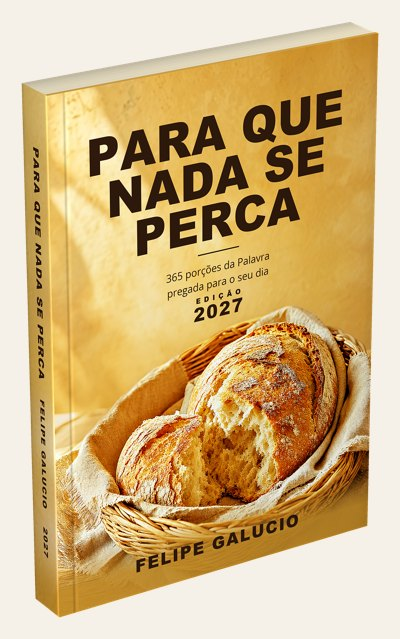
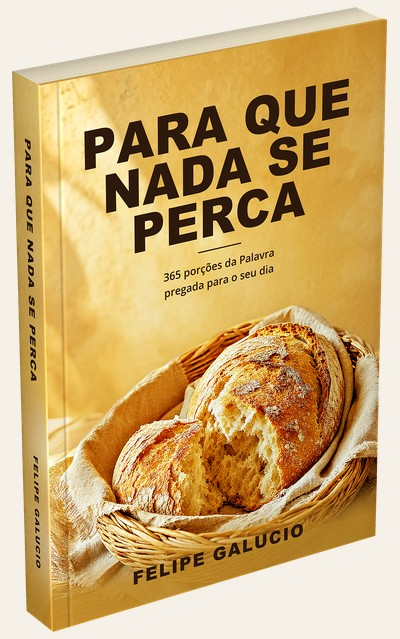
Devocional sem ano: textos e imagens sem 'Edicao 2027', 412 paginas

diff --git a/para-que-nada-se-perca/index.html b/para-que-nada-se-perca/index.html
@@ -3,10 +3,10 @@
 <head>
 <meta charset="utf-8">
 <meta name="viewport" content="width=device-width, initial-scale=1">
-<title>Pré-venda · Para que Nada se Perca · devocional 2027</title>
-<meta name="description" content="Para que Nada se Perca: 365 porções da Palavra pregada para o seu dia. Devocional diário de 2027 do Pr. Felipe Galucio, com plano de leitura da Bíblia em um ano. Envio para todo o Brasil.">
-<meta property="og:title" content="Para que Nada se Perca · devocional 2027">
-<meta property="og:description" content="365 porções da Palavra pregada para o seu dia. Um devocional para cada dia de 2027, com a Bíblia inteira em um ano.">
+<title>Pré-venda · Para que Nada se Perca · devocional diário</title>
+<meta name="description" content="Para que Nada se Perca: 365 porções da Palavra pregada para o seu dia. Devocional diário do Pr. Felipe Galucio, com plano de leitura da Bíblia em um ano. Envio para todo o Brasil.">
+<meta property="og:title" content="Para que Nada se Perca · devocional diário">
+<meta property="og:description" content="365 porções da Palavra pregada para o seu dia. Um devocional para cada dia do ano, com a Bíblia inteira em um ano.">
 <meta property="og:image" content="https://galucioweb36-hue.github.io/para-que-nada-se-perca/img/livro-aberto.webp">
 <link rel="preconnect" href="https://fonts.googleapis.com">
 <link rel="stylesheet" href="https://fonts.googleapis.com/css2?family=Playfair+Display:wght@500;600;700&family=Karla:wght@400;500;600;700&display=swap">
@@ -201,14 +201,14 @@
 <!-- ======================= TOPO ======================= -->
 <header class="topo">
   <div class="wrap-largo topo-grade">
-    <img src="img/livro-fechado.webp" width="700" height="1165" alt="Livro Para que Nada se Perca, edição 2027, de Felipe Galucio">
+    <img src="img/livro-fechado.webp" width="700" height="1165" alt="Livro Para que Nada se Perca, de Felipe Galucio">
     <div class="topo-texto">
-      <span class="etiqueta">Pré-venda até 5 de novembro · Edição 2027</span>
+      <span class="etiqueta">Pré-venda até 5 de novembro</span>
       <h1>Para que Nada se Perca</h1>
-      <p class="sub">365 porções da Palavra pregada para o seu dia, uma para cada dia de 2027, com a Bíblia inteira em um ano.</p>
+      <p class="sub">365 porções da Palavra pregada para o seu dia, uma para cada dia do ano, com a Bíblia inteira em um ano.</p>
       <div class="preco"><span class="valor-preco">R$ 65,00</span> <small>com envio para todo o Brasil</small></div>
       <ul class="selos">
-        <li>388 páginas</li><li>16 × 23 cm</li><li>Texto bíblico ARA</li><li>Envio pelos Correios</li>
+        <li>412 páginas</li><li>16 × 23 cm</li><li>Texto bíblico ARA</li><li>Envio pelos Correios</li>
       </ul>
       <p class="datas">Pré-venda até <b>5 de novembro</b>. Envios a partir de <b>15 de novembro</b>.</p>
       <a class="btn btn-cacau compra" href="pedido/">Quero o meu exemplar</a>
@@ -224,7 +224,7 @@
     <p>Depois de alimentar quase cinco mil pessoas com cinco pães e dois peixinhos, Jesus deu uma ordem que quase passa despercebida no meio do milagre:</p>
     <div class="versiculo">“Recolhei os pedaços que sobraram, para que nada se perca.”<cite>João 6:12</cite></div>
     <p>Todo domingo um sermão é servido à igreja depois de dias de estudo e oração. Mas na segunda-feira a vida volta a correr, e boa parte do que foi ouvido fica pelo caminho. Este livro nasceu dessa ordem de Jesus: recolhi os pedaços dos meus sermões e reparti em porções do tamanho de um dia, para que o alimento chegue também à segunda-feira, à quinta à noite e àquela manhã difícil em que ninguém está pregando para você.</p>
-    <p>São 365 devocionais, um para cada dia de 2027. Quando os sermões se esgotaram, segui pelo mesmo caminho que o púlpito sempre segue: as grandes doutrinas das cartas de Paulo, levadas à vida prática, alternadas com a sabedoria dos Salmos, de Provérbios, de Eclesiastes e de Lamentações.</p>
+    <p>São 365 devocionais, um para cada dia do ano, e o livro serve para este ano e para os seguintes. Quando os sermões se esgotaram, segui pelo mesmo caminho que o púlpito sempre segue: as grandes doutrinas das cartas de Paulo, levadas à vida prática, alternadas com a sabedoria dos Salmos, de Provérbios, de Eclesiastes e de Lamentações.</p>
     <div class="cta"><a class="btn btn-cacau compra" href="pedido/">Quero o meu exemplar · <span class="valor-preco">R$ 65,00</span></a><small>Frete incluso · pré-venda até 5/11 · envios a partir de 15/11</small></div>
   </div>
 </section>
@@ -242,7 +242,7 @@
       <img class="pagina" src="img/pagina-1-janeiro.webp" width="900" height="1294" loading="lazy" alt="A página de 1º de janeiro, Cada manhã, uma nova oportunidade">
       <ol class="partes">
         <li><b>Leitura da Bíblia em um ano</b><span>No alto da página, um trecho do Antigo Testamento, um do Novo, um Salmo e um Provérbio, com um quadradinho para marcar a leitura feita.</span></li>
-        <li><b>Data, dia da semana e tema</b><span>Feito para o calendário de 2027, com o título do dia.</span></li>
+        <li><b>Data e tema</b><span>Só o dia e o mês, sem ano marcado, para você começar em qualquer data e reler nos anos seguintes.</span></li>
         <li><b>Texto base</b><span>A passagem bíblica por extenso, na Almeida Revista e Atualizada, para você ler a Palavra antes de qualquer comentário.</span></li>
         <li><b>Sobre o que fala o texto?</b><span>A passagem entendida no seu contexto, porque um versículo fora do lugar pode dizer o que Deus nunca disse.</span></li>
         <li><b>Para a sua vida</b><span>A Palavra aplicada ao dia que você tem pela frente.</span></li>
@@ -262,14 +262,14 @@
       <h2>Mais do que um devocional</h2>
     </div>
     <div class="cartoes">
-      <div class="cartao"><h3>A Bíblia inteira em 2027</h3><p>Seguindo a faixa do alto de cada página, você lê de Gênesis a Apocalipse até 31 de dezembro, caminhando pelos dois Testamentos ao mesmo tempo.</p></div>
-      <div class="cartao"><h3>O calendário do seu ano</h3><p>Carnaval, Semana Santa e Páscoa, Dia das Mães, Dia dos Pais, Advento e Natal ganharam devocionais próprios, no dia em que caem em 2027.</p></div>
+      <div class="cartao"><h3>A Bíblia inteira em um ano</h3><p>Seguindo a faixa do alto de cada página, você lê de Gênesis a Apocalipse até 31 de dezembro, caminhando pelos dois Testamentos ao mesmo tempo.</p></div>
+      <div class="cartao"><h3>As datas especiais</h3><p>Semana Santa e Páscoa, Pentecostes, Dia das Mães, Dia dos Pais e Advento têm devocionais próprios, com uma tabela que mostra em que dia cada data cai nos próximos anos.</p></div>
       <div class="cartao"><h3>Bíblia no centro</h3><p>Explicação antes da aplicação, texto respeitado no seu contexto e linguagem clara, sem promessas que a Bíblia não faz.</p></div>
       <div class="cartao"><h3>Para ler sozinho</h3><p>Dez minutos por dia, num horário fixo, com um caderno ao lado para responder à pergunta do dia.</p></div>
       <div class="cartao"><h3>Para ler junto</h3><p>Casais e famílias podem ler a mesma página e conversar sobre a pergunta à mesa.</p></div>
       <div class="cartao"><h3>Para estudar em grupo</h3><p>Pequenos grupos e células podem escolher um devocional da semana e ler juntos o capítulo de onde saiu o texto.</p></div>
     </div>
-    <div class="cta"><a class="btn btn-cacau compra" href="pedido/">Quero começar 2027 com este devocional · <span class="valor-preco">R$ 65,00</span></a><small>Frete incluso · pré-venda até 5/11 · envios a partir de 15/11</small></div>
+    <div class="cta"><a class="btn btn-cacau compra" href="pedido/">Quero começar o ano com este devocional · <span class="valor-preco">R$ 65,00</span></a><small>Frete incluso · pré-venda até 5/11 · envios a partir de 15/11</small></div>
   </div>
 </section>
 
@@ -294,10 +294,9 @@
     <h2>Sobre o exemplar</h2>
     <dl class="ficha">
       <div><dt>Formato</dt><dd>16 × 23 cm, brochura com orelhas</dd></div>
-      <div><dt>Páginas</dt><dd>388</dd></div>
-      <div><dt>Conteúdo</dt><dd>365 devocionais e plano de leitura anual</dd></div>
+      <div><dt>Páginas</dt><dd>412</dd></div>
+      <div><dt>Conteúdo</dt><dd>365 devocionais, 21 devocionais de datas especiais e plano de leitura anual</dd></div>
       <div><dt>Versão bíblica</dt><dd>Almeida Revista e Atualizada</dd></div>
-      <div><dt>Edição</dt><dd>2027</dd></div>
       <div><dt>ISBN</dt><dd>978-65-02-45045-1</dd></div>
     </dl>
   </div>
@@ -336,7 +335,7 @@
 <section id="final">
   <div class="wrap" style="text-align:center">
     <span class="etiqueta">Pré-venda até 5 de novembro</span>
-    <h2>Comece 2027 com uma porção da Palavra por dia</h2>
+    <h2>Comece o ano com uma porção da Palavra por dia</h2>
     <p>R$ 65,00 com frete incluso para todo o Brasil. Envios a partir de 15 de novembro.</p>
     <a class="btn btn-ouro compra" href="pedido/">Quero o meu exemplar</a>
   </div>

diff --git a/para-que-nada-se-perca/pedido/index.html b/para-que-nada-se-perca/pedido/index.html
@@ -4,10 +4,10 @@
 <meta charset="utf-8">
 <meta name="viewport" content="width=device-width, initial-scale=1">
 <title>Seu pedido · Para que Nada se Perca</title>
-<meta name="description" content="Pedido do devocional Para que Nada se Perca, edição 2027: endereço de entrega e pagamento.">
+<meta name="description" content="Pedido do devocional Para que Nada se Perca: endereço de entrega e pagamento.">
 <meta name="robots" content="noindex">
-<meta property="og:title" content="Para que Nada se Perca · devocional 2027">
-<meta property="og:description" content="365 porções da Palavra pregada para o seu dia. Um devocional para cada dia de 2027, com a Bíblia inteira em um ano.">
+<meta property="og:title" content="Para que Nada se Perca · devocional diário">
+<meta property="og:description" content="365 porções da Palavra pregada para o seu dia. Um devocional para cada dia do ano, com a Bíblia inteira em um ano.">
 <meta property="og:image" content="https://galucioweb36-hue.github.io/para-que-nada-se-perca/img/livro-aberto.webp">
 <link rel="preconnect" href="https://fonts.googleapis.com">
 <link rel="stylesheet" href="https://fonts.googleapis.com/css2?family=Playfair+Display:wght@500;600;700&family=Karla:wght@400;500;600;700&display=swap">
@@ -192,7 +192,7 @@
 <div class="barra-topo">
   <div class="wrap">
     <img src="../img/livro-fechado.webp" width="700" height="1165" alt="Livro Para que Nada se Perca">
-    <div><b>Para que Nada se Perca</b><span>Devocional diário · Edição 2027 · <span class="valor-preco">R$ 65,00</span> com frete</span></div>
+    <div><b>Para que Nada se Perca</b><span>Devocional diário · <span class="valor-preco">R$ 65,00</span> com frete</span></div>
   </div>
 </div>
 <div class="wrap"><a class="voltar" href="../">&larr; Voltar para a apresentação do livro</a></div>
@@ -205,7 +205,7 @@
     <p>Preencha seu nome, WhatsApp e o endereço de entrega. O pagamento vem logo em seguida, no PagBank.</p>
 
     <div class="caixa-form">
-      <div class="resumo-preco"><span>Para que Nada se Perca · Edição 2027</span><b class="valor-preco">R$ 65,00</b></div>
+      <div class="resumo-preco"><span>Para que Nada se Perca</span><b class="valor-preco">R$ 65,00</b></div>
       <p class="aviso-datas">Pré-venda até 5 de novembro. Os livros são postados a partir de 15 de novembro, e o código de rastreio chega no seu e-mail.</p>
       <div id="encerrada" hidden><p><b>A pré-venda terminou em 5 de novembro.</b> Obrigado a todos que garantiram o seu exemplar. Fique de olho no Instagram <a href="https://instagram.com/prfelipegalucio" style="color:var(--ouro-escuro)">@prfelipegalucio</a> para as próximas novidades.</p></div>
 

diff --git a/para-que-nada-se-perca/igreja/index.html b/para-que-nada-se-perca/igreja/index.html
@@ -4,7 +4,7 @@
 <meta charset="utf-8">
 <meta name="viewport" content="width=device-width, initial-scale=1">
 <title>Pré-venda — Para que Nada se Perca</title>
-<meta name="description" content="Pré-venda do devocional Para que Nada se Perca, edição 2027, do Pr. Felipe Galucio.">
+<meta name="description" content="Pré-venda do devocional Para que Nada se Perca, do Pr. Felipe Galucio.">
 <meta name="robots" content="noindex, nofollow">
 <link rel="stylesheet" href="https://fonts.googleapis.com/css2?family=Playfair+Display:wght@500;600;700&family=Karla:wght@400;500;600;700&display=swap">
 <style>
@@ -107,11 +107,11 @@
 
 <div class="topo">
   <div class="wrap topo-linha">
-    <img src="../../img/livro-para-que-nada-se-perca.webp" alt="Livro Para que Nada se Perca, edição 2027">
+    <img src="../../img/livro-para-que-nada-se-perca.webp" alt="Livro Para que Nada se Perca">
     <div>
       <div class="etiqueta">Pré-venda · até 31 de outubro</div>
       <h1>Para que Nada se Perca</h1>
-      <div class="sub">365 porções da Palavra pregada para o seu dia · edição 2027</div>
+      <div class="sub">365 porções da Palavra pregada para o seu dia</div>
       <div class="valor">R$ 55,00 <small>por exemplar</small></div>
     </div>
   </div>

diff --git a/links/index.html b/links/index.html
@@ -194,11 +194,11 @@
 
     <li>
       <a class="link destaque" href="../para-que-nada-se-perca/">
-        <img class="mockup" src="../para-que-nada-se-perca/img/livro-fechado.webp" alt="Livro Para que Nada se Perca, edição 2027">
+        <img class="mockup" src="../para-que-nada-se-perca/img/livro-fechado.webp" alt="Livro Para que Nada se Perca">
         <div class="texto">
           <span class="selo">Pré-venda até 5/11</span>
           <span class="tit">Para que Nada se Perca</span>
-          <span class="sub">Meu devocional diário para 2027: uma porção da Palavra por dia, com a Bíblia inteira em um ano. Envio para todo o Brasil.</span>
+          <span class="sub">Meu devocional diário: uma porção da Palavra por dia, com a Bíblia inteira em um ano. Envio para todo o Brasil.</span>
         </div>
         <svg class="seta" viewBox="0 0 24 24" aria-hidden="true"><path d="M9 5l7 7-7 7"/></svg>
       </a>
